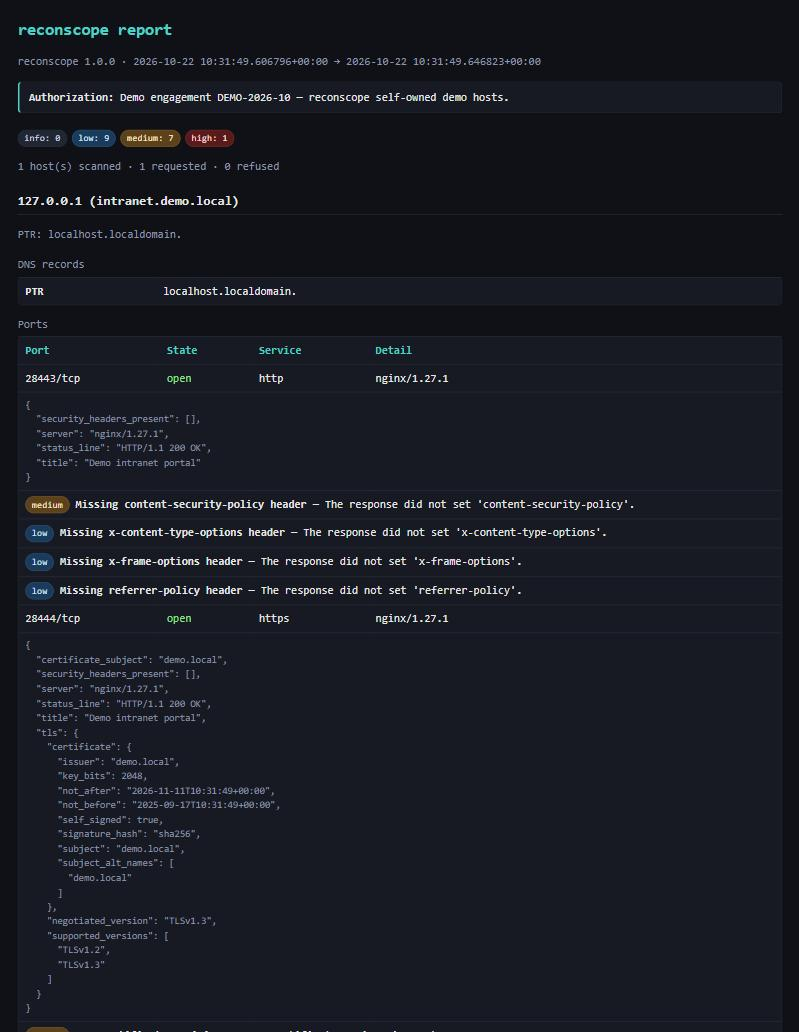
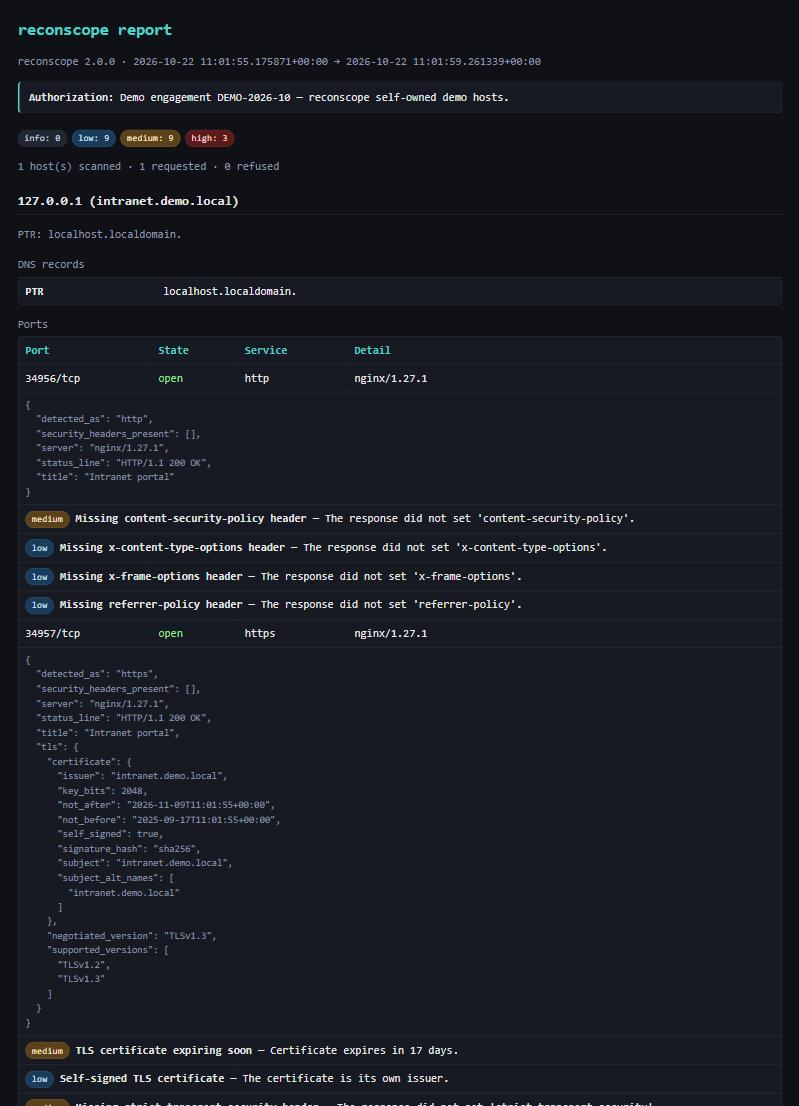
Update reconscope card for v2: service detection, chaining, 13 protocols

diff --git a/index.html b/index.html
@@ -493,14 +493,14 @@
         </button>
         <div class="pbody">
           <h3>reconscope, énumération réseau et services sous périmètre autorisé</h3>
-          <p>Un outil d'énumération réseau en Python pour les tests de sécurité autorisés. Sa pièce maîtresse est le fichier de périmètre : une liste blanche d'hôtes et de ports que reconscope ne dépasse jamais et qui refuse toute cible hors scope avant d'envoyer le moindre paquet. Un scan TCP asynchrone et limité en débit découvre les services, puis des sondes en lecture seule relèvent les points d'hygiène : versions et certificats TLS, en-têtes de sécurité HTTP, algorithmes SSH faibles, SMBv1 et signature SMB, enregistrements DNS. Rapport JSON et rapport HTML autonome durci par CSP.</p>
+          <p>Un outil d'énumération réseau en Python pour les tests de sécurité autorisés. Sa pièce maîtresse est le fichier de périmètre : une liste blanche d'hôtes et de ports que reconscope ne dépasse jamais et qui refuse toute cible hors scope avant d'envoyer le moindre paquet. Un scan TCP asynchrone, concurrent et limité en débit découvre les services, qu'il identifie par leur protocole réel et non par leur numéro de port, puis treize sondes en lecture seule relèvent les points d'hygiène : TLS, en-têtes HTTP, algorithmes SSH, SMBv1, Redis sans mot de passe, bases sans TLS, VNC sans authentification… Les noms trouvés dans les certificats, les redirections et le DNS sont rescannés en chaîne, toujours dans le périmètre. Rapport JSON et rapport HTML autonome durci par CSP.</p>
           <ul class="proof">
-            <li><b>5</b> sondes de protocole en lecture seule</li>
-            <li><b>84</b> tests, 93 % de couverture</li>
+            <li><b>13</b> sondes de protocole en lecture seule</li>
+            <li><b>125</b> tests, 92 % de couverture</li>
             <li><b>0</b> paquet hors du périmètre autorisé</li>
             <li><b>lab Docker</b> scanné à chaque commit</li>
           </ul>
-          <div class="tagset"><span class="tag">Python 3</span><span class="tag">asyncio</span><span class="tag">TLS</span><span class="tag">SSH</span><span class="tag">SMB</span><span class="tag">DNS</span><span class="tag">cryptography</span><span class="tag">Jinja2</span><span class="tag">Docker Compose</span><span class="tag">mypy --strict</span><span class="tag">GitHub Actions</span><span class="tag">CodeQL</span><span class="tag">Gitleaks</span></div>
+          <div class="tagset"><span class="tag">Python 3</span><span class="tag">asyncio</span><span class="tag">Détection de service</span><span class="tag">TLS</span><span class="tag">SSH</span><span class="tag">SMB</span><span class="tag">Redis</span><span class="tag">SQL</span><span class="tag">RDP / VNC</span><span class="tag">DNS</span><span class="tag">Docker Compose</span><span class="tag">mypy --strict</span><span class="tag">CodeQL</span></div>
           <div class="actions"><button class="abtn main" type="button" data-open="reconscope" data-path="~/projects/reconscope">Détails</button><a class="abtn" href="https://github.com/Barkatzineddine/reconscope" target="_blank" rel="noopener">GitHub ↗</a><a class="abtn" href="https://github.com/Barkatzineddine/reconscope/actions/workflows/ci.yml" target="_blank" rel="noopener">CI ↗</a></div>
         </div>
       </article>
@@ -798,10 +798,10 @@
 <template id="t-reconscope">
   <h3>reconscope, énumération réseau et services sous périmètre autorisé</h3>
   <p>Un outil pour la phase de reconnaissance d'un test d'intrusion autorisé : cartographier les hôtes et les services d'un périmètre, identifier ce qui écoute et remonter les défauts d'hygiène qu'un défenseur veut voir corrigés. Tout part d'un fichier de périmètre, qui est à la fois l'autorisation et le garde-fou : reconscope ne contacte que ce qu'il déclare et refuse le reste avant d'émettre le moindre paquet.</p>
-  <div class="tagset"><span class="tag">Python 3</span><span class="tag">asyncio</span><span class="tag">TLS / ssl</span><span class="tag">SSH (KEXINIT)</span><span class="tag">SMB2 / SMB1</span><span class="tag">dnspython</span><span class="tag">cryptography</span><span class="tag">Jinja2 + CSP</span><span class="tag">pytest</span><span class="tag">ruff</span><span class="tag">mypy --strict</span><span class="tag">Docker Compose</span><span class="tag">GitHub Actions</span><span class="tag">CodeQL</span><span class="tag">Gitleaks</span><span class="tag">OpenSSF Scorecard</span></div>
-  <div class="run"><b>Usage autorisé uniquement.</b> Le fichier de périmètre est une frontière de sécurité, pas un substitut à l'autorisation écrite de l'engagement. À chaque commit, la CI monte un lab Docker (nginx, OpenSSH, Samba, CoreDNS) aux défauts volontaires et vérifie que reconscope retrouve chacun d'eux.</div>
+  <div class="tagset"><span class="tag">Python 3</span><span class="tag">asyncio</span><span class="tag">Détection de service</span><span class="tag">TLS / ssl</span><span class="tag">SSH (KEXINIT)</span><span class="tag">SMB2 / SMB1</span><span class="tag">Redis</span><span class="tag">MySQL / PostgreSQL</span><span class="tag">VNC / RDP</span><span class="tag">dnspython</span><span class="tag">cryptography</span><span class="tag">Jinja2 + CSP</span><span class="tag">mypy --strict</span><span class="tag">Docker Compose</span><span class="tag">CodeQL</span><span class="tag">Gitleaks</span><span class="tag">OpenSSF Scorecard</span></div>
+  <div class="run"><b>Usage autorisé uniquement.</b> Le fichier de périmètre est une frontière de sécurité, pas un substitut à l'autorisation écrite de l'engagement. À chaque commit, la CI monte un lab Docker (nginx, OpenSSH, Samba, CoreDNS, Redis) aux défauts volontaires et vérifie que reconscope retrouve chacun d'eux.</div>
   <div class="shots2">
-    <figure><img src="img/reconscope-report.png" alt="Rapport HTML en thème sombre : note d'autorisation, constats par sévérité, enregistrements DNS, et détail des ports 80 et 443 avec l'analyse du certificat TLS (auto-signé, expiration proche)"><figcaption>Rapport HTML autonome, thème sombre selon le réglage du système</figcaption></figure>
+    <figure><img src="img/reconscope-report.png" alt="Rapport HTML en thème sombre : note d'autorisation, 3 constats critiques, et détail des services détectés (HTTP, HTTPS) avec l'analyse du certificat TLS auto-signé"><figcaption>Rapport HTML autonome, thème sombre selon le réglage du système</figcaption></figure>
   </div>
 
   <h4>Le périmètre comme garde-fou</h4>
@@ -812,19 +812,25 @@
     <li>Chaque refus est inscrit dans le rapport, pour tracer ce qui a été exclu et pourquoi.</li>
   </ul>
 
-  <h4>Cinq sondes en lecture seule</h4>
+  <h4>Détection de service et chaînage</h4>
   <ul class="facts">
-    <li><b>HTTP(S)</b> : statut, titre, en-tête <code>Server</code> et en-têtes de sécurité manquants (HSTS, CSP, X-Content-Type-Options…).</li>
-    <li><b>TLS</b> : sujet, émetteur, SAN, expiration, taille de clé et signature du certificat, et versions acceptées — signale TLS 1.0/1.1, l'auto-signé, l'expiré et les clés faibles.</li>
-    <li><b>SSH</b> : bannière et algorithmes offerts (échange de clés, clé d'hôte, chiffrement, MAC), les obsolètes étant signalés (KEX SHA-1, chiffrements CBC, <code>ssh-rsa</code>…). La sonde lit le <code>KEXINIT</code> directement sur la socket.</li>
-    <li><b>SMB</b> : dialecte négocié, signature exigée ou non, et détection du protocole obsolète SMBv1 — sans authentification ni accès à un partage.</li>
-    <li><b>DNS</b> : enregistrements directs pour un nom, PTR inverse pour une adresse.</li>
+    <li><b>Identification par le protocole, pas par le port</b> : chaque port ouvert est classé selon ce qu'il parle réellement. reconscope lit ce que le service annonce, puis sonde activement (poignée de main TLS, requête HTTP, puis les protocoles binaires) — il reconnaît donc HTTP sur 8081, une base déplacée de son port, ou du TLS enveloppant n'importe quoi.</li>
+    <li><b>Chaînage des découvertes</b> : les noms trouvés dans les SAN des certificats, les redirections HTTP et les enregistrements DNS repassent par le garde-fou du périmètre ; ceux qui sont dans le scope sont résolus et scannés à leur tour.</li>
+    <li><b>Hôtes scannés en parallèle</b>, sous le même limiteur de débit.</li>
+  </ul>
+
+  <h4>Treize sondes en lecture seule</h4>
+  <ul class="facts">
+    <li><b>HTTP(S)</b> : statut, titre, <code>Server</code> et en-têtes de sécurité manquants (HSTS, CSP…). <b>TLS</b> : sujet, émetteur, SAN, expiration, taille de clé et signature, versions acceptées — signale TLS 1.0/1.1, l'auto-signé, l'expiré, les clés faibles.</li>
+    <li><b>SSH</b> : algorithmes offerts (KEX, clé d'hôte, chiffrement, MAC), les obsolètes signalés (KEX SHA-1, CBC, <code>ssh-rsa</code>) — lecture du <code>KEXINIT</code> directement sur la socket. <b>SMB</b> : dialecte, signature exigée ou non, et détection de SMBv1.</li>
+    <li><b>Redis</b> : détecte une instance accessible <b>sans authentification</b>. <b>MySQL / PostgreSQL</b> : version et capacité TLS depuis la poignée de main, avant toute authentification. <b>VNC</b> : types de sécurité offerts, signale <code>None</code> (sans mot de passe). <b>RDP</b> : protocole de sécurité négocié, signale le RDP standard (sans TLS/NLA).</li>
+    <li><b>FTP / SMTP</b> : bannière et capacités, absence d'<code>AUTH TLS</code> / <code>STARTTLS</code> signalée. <b>Telnet</b> : sa seule présence est un constat. <b>DNS</b> : enregistrements directs et PTR inverse.</li>
   </ul>
 
   <h4>Rapport durci et chaîne de qualité</h4>
   <ul class="facts">
     <li><b>Rapport HTML autonome</b> : toutes les valeurs collectées sont échappées et une CSP interdit scripts et ressources distantes ; l'unique feuille de style est autorisée par son empreinte SHA-256. Une bannière ou un champ de certificat hostile ne peut pas injecter de balise.</li>
-    <li><b>84 tests</b> (93 % de couverture) contre de vrais serveurs TCP/TLS locaux, ruff et <code>mypy --strict</code>.</li>
+    <li><b>125 tests</b> (92 % de couverture) contre de vrais serveurs TCP/TLS locaux, ruff et <code>mypy --strict</code>.</li>
     <li><b>Lab d'intégration</b> : la CI scanne le lab Docker et échoue si une sonde ne retrouve plus un défaut planté.</li>
     <li><b>Chaîne d'approvisionnement verrouillée</b> : actions épinglées par SHA, dépendances verrouillées par hash et adoptées après un délai de 7 jours, CodeQL, Gitleaks et OpenSSF Scorecard.</li>
   </ul>
